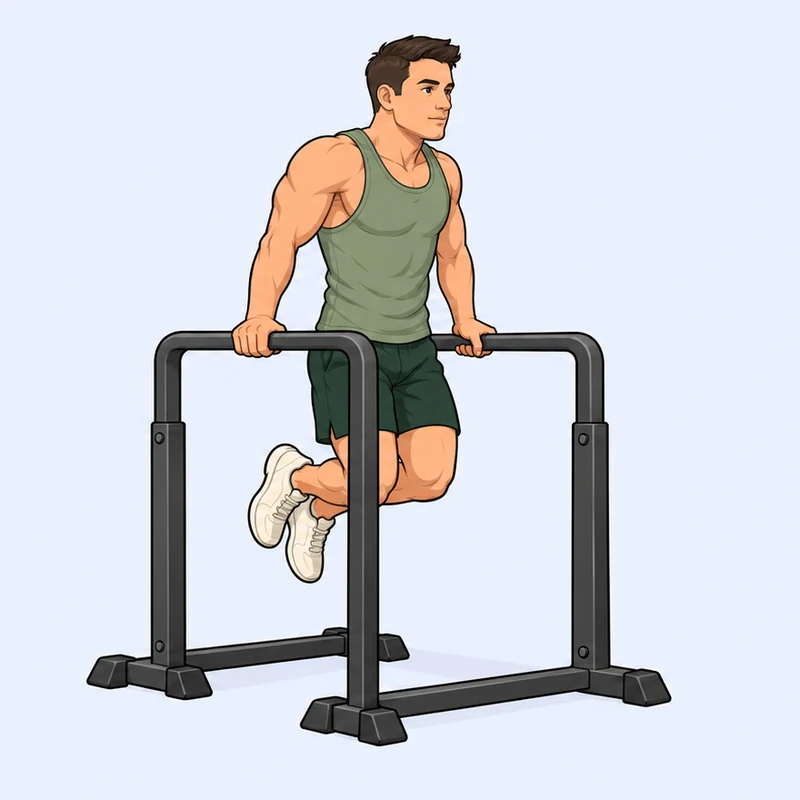
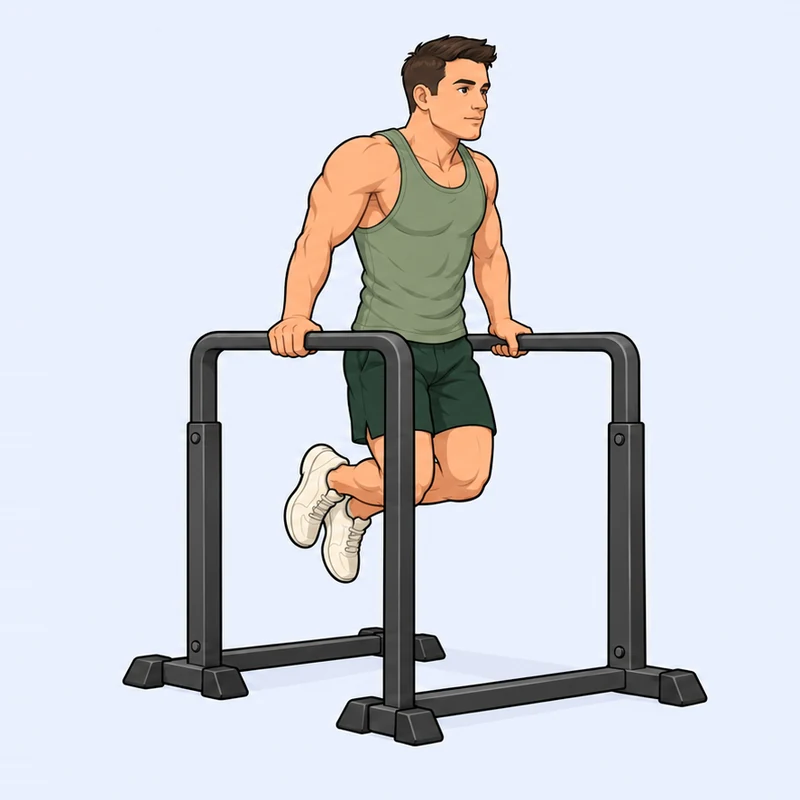
Align pec deck and dips animation frames and refresh Monday cover

Changed region(s): [[0.0938, 0.0312, 0.9062, 0.9375]]

diff --git a/src/App.tsx b/src/App.tsx
@@ -8,7 +8,7 @@ import { canonicalExerciseId, getMuscle, imageNames, muscleLabels, snapshotExerc
 import { planLabels, selectRoutinePlan } from './routinePlans';
 import { copyPreset } from './exerciseLibrary';
 import { ExercisePicker } from './ExercisePicker';
-import { ExerciseMotion, mondayMotionId } from './ExerciseMotion';
+import { ExerciseMotion, mondayMotionId, workoutCoverUrl } from './ExerciseMotion';
 import { HistoryEditor } from './HistoryEditor';
 import { MuscleBadge } from './components';
 import { Progression } from './ProgressionView';
@@ -272,7 +272,7 @@ export default function App() {
         <div className="week-strip" aria-label="Sua semana">{Array.from({ length: 7 }, (_, i) => { const current = new Date(date); const offset = day; current.setDate(date.getDate() - offset + i); const weekday = current.getDay(), key = localDateKey(current); const today = key === localDateKey(date); const records = sessionsOnDate(state.history, key); const label = `${days[weekday]}, ${current.getDate()}${today ? ', hoje' : ''}${records.length ? ': ' + records.map(s => s.workoutName).join('; ') : ', sem treino registrado'}`; return <button key={i} data-date={key} className={`week-day ${today ? 'today' : ''} ${records.length ? 'trained' : ''}`} aria-label={label} title={label} onClick={() => setDialog({ type: 'day', date: key })}><span>{['DOM', 'SEG', 'TER', 'QUA', 'QUI', 'SEX', 'SÁB'][weekday]}</span><strong>{current.getDate()}</strong>{records.length ? <DayMarkers sessions={records} /> : <span className="week-marker"><span /></span>}</button>; })}</div>
         </section>
         <div className="section-heading"><h2>Seus treinos</h2><span>{completedWorkoutIds.size ? `${completedWorkoutIds.size} treino${completedWorkoutIds.size > 1 ? 's' : ''} concluído${completedWorkoutIds.size > 1 ? 's' : ''} hoje` : workoutToday ? (workoutToday.optional ? 'Opcional hoje: em casa' : `Sugestão de hoje: ${workoutToday.id.toUpperCase()}`) : 'Você escolhe a ordem'}</span></div>
-        <div className="workout-grid">{state.workouts.map(w => { const completed = completedWorkoutIds.has(w.id); const duplicateName = state.workouts.filter(other => other.name === w.name).length > 1; return <button className={`workout-tile ${completed ? 'workout-done' : ''}`} key={w.id} data-workout={w.id} onClick={() => openWorkout(w)} aria-label={`Abrir treino ${w.name}${duplicateName ? ` (${w.id.toUpperCase()})` : ''}`}><div className="workout-cover"><img src={imageUrl(w.image)} alt={`Ilustração do treino ${w.name}`} fetchPriority={w.day === day ? 'high' : 'auto'} />{completed ? <span className="completed-badge"><Check size={11} />Concluído</span> : w.day === day && <span className="today-badge">{w.optional ? 'Opcional' : 'Sugerido'}</span>}<span className="cover-arrow"><ArrowRight size={18} /></span></div><div className="workout-caption"><span className="workout-letter">{w.id.length === 1 ? w.id.toUpperCase() : <Dumbbell size={15} />}</span><div><h3>{w.name}</h3><p>{days[w.day]} <span>·</span> {w.optional && <>Opcional <span>·</span> </>}{w.exercises.length} exercícios</p></div><ArrowRight size={17} /></div></button>; })}</div>
+        <div className="workout-grid">{state.workouts.map(w => { const completed = completedWorkoutIds.has(w.id); const duplicateName = state.workouts.filter(other => other.name === w.name).length > 1; return <button className={`workout-tile ${completed ? 'workout-done' : ''}`} key={w.id} data-workout={w.id} onClick={() => openWorkout(w)} aria-label={`Abrir treino ${w.name}${duplicateName ? ` (${w.id.toUpperCase()})` : ''}`}><div className="workout-cover"><img src={workoutCoverUrl(state.selectedPlan, w.id, w.image)} alt={`Ilustração do treino ${w.name}`} fetchPriority={w.day === day ? 'high' : 'auto'} />{completed ? <span className="completed-badge"><Check size={11} />Concluído</span> : w.day === day && <span className="today-badge">{w.optional ? 'Opcional' : 'Sugerido'}</span>}<span className="cover-arrow"><ArrowRight size={18} /></span></div><div className="workout-caption"><span className="workout-letter">{w.id.length === 1 ? w.id.toUpperCase() : <Dumbbell size={15} />}</span><div><h3>{w.name}</h3><p>{days[w.day]} <span>·</span> {w.optional && <>Opcional <span>·</span> </>}{w.exercises.length} exercícios</p></div><ArrowRight size={17} /></div></button>; })}</div>
         <WeeklyMuscleSummary workouts={state.workouts} onSelect={muscle => setDialog({ type: 'muscle', muscle })} />
         <div className="home-footer"><Leaf size={16} /><p>{workoutToday ? 'Seu ritmo. Uma série de cada vez.' : 'O descanso também faz parte. Seus treinos continuam por aqui.'}</p></div>
       </>}

diff --git a/src/ExerciseMotion.tsx b/src/ExerciseMotion.tsx
@@ -12,6 +12,13 @@ export function mondayMotionId(plan: string | undefined, workout: string, id: st
   return (!plan || plan === 'original') && workout === 'a' && mondayImages[id] === image ? id : undefined;
 }
 
+export function workoutCoverUrl(plan: string | undefined, workout: string, image: number) {
+  const base = `${import.meta.env.BASE_URL}images/`;
+  return mondayMotionId(plan, workout, 'bench-press', image)
+    ? `${base}motion/bench-press-1.webp`
+    : `${base}exercise-${image}.webp`;
+}
+
 export function ExerciseMotion({ id, image, title, controls = false }: { id: string; image: number; title: string; controls?: boolean }) {
   const [frame, setFrame] = useState(0);
   const [playing, setPlaying] = useState(() => !window.matchMedia('(prefers-reduced-motion: reduce)').matches);

diff --git a/scripts/align-monday-frames.py b/scripts/align-monday-frames.py
@@ -1,0 +1,24 @@
+"""Re-export the existing artwork with fixed equipment aligned between frames.
+
+Only canvas translation is applied; no new artwork or exercise poses are generated.
+Offsets are in the final 800 x 800 frame, measured against fixed machine landmarks.
+"""
+from pathlib import Path
+from PIL import Image
+
+ROOT = Path(__file__).resolve().parent.parent
+OFFSETS = {'pec-deck': (25, -1), 'parallel-bar-dips': (36, 0)}
+
+for name, (dx, dy) in OFFSETS.items():
+    sheet = Image.open(ROOT / 'assets' / 'monday-motion' / f'{name}.png').convert('RGB')
+    half = sheet.width // 2
+    frame = sheet.crop((half, 0, sheet.width, sheet.height)).resize((800, 800), Image.Resampling.LANCZOS)
+    # Extend the original blue edge pixels into the exposed canvas margins.
+    aligned = frame.copy()
+    if dx > 0:
+        aligned.paste(frame.crop((0, 0, 1, 800)).resize((dx, 800)), (0, 0))
+    if dy < 0:
+        aligned.paste(frame.crop((0, 799, 800, 800)).resize((800, -dy)), (0, 800 + dy))
+    aligned.paste(frame, (dx, dy))
+    aligned.save(ROOT / 'public' / 'images' / 'motion' / f'{name}-2.webp', quality=88, method=6)
+    print(f'{name}: second frame shifted ({dx}, {dy}) px')
